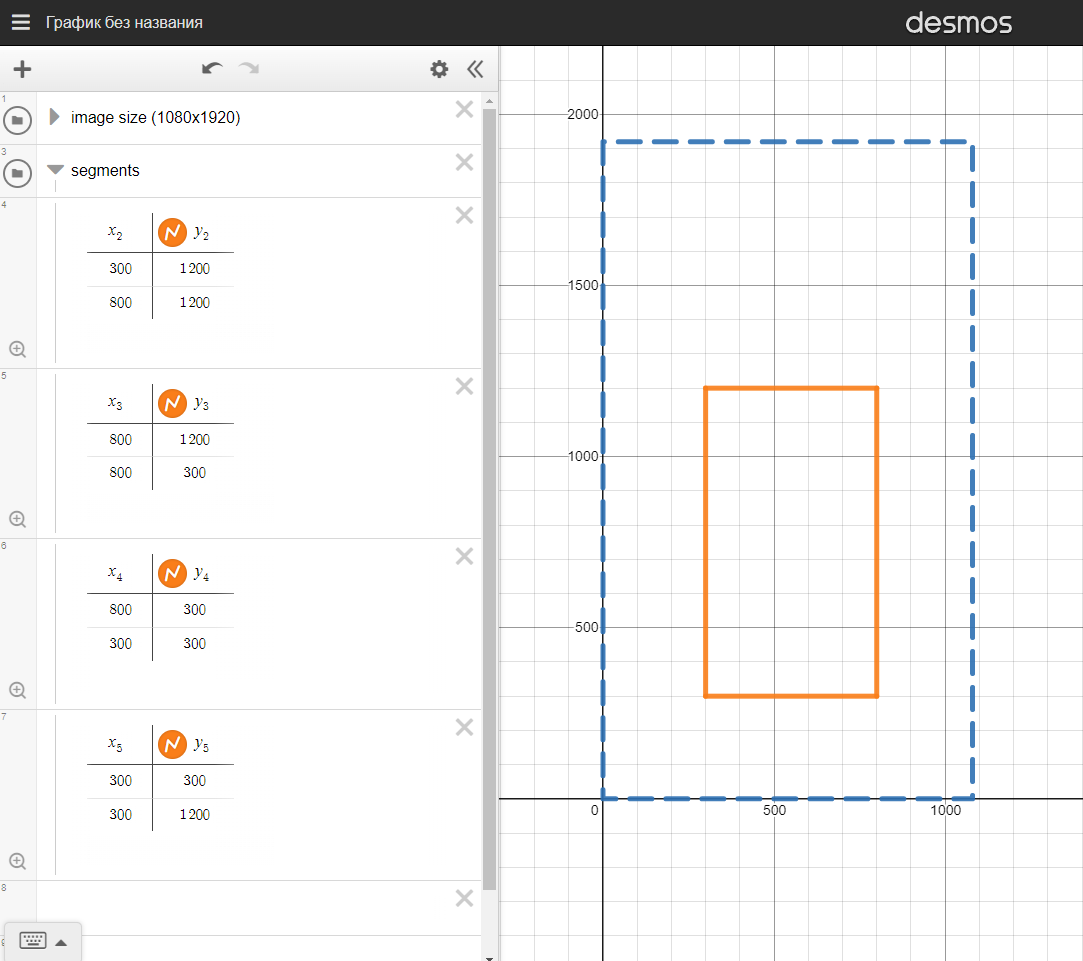
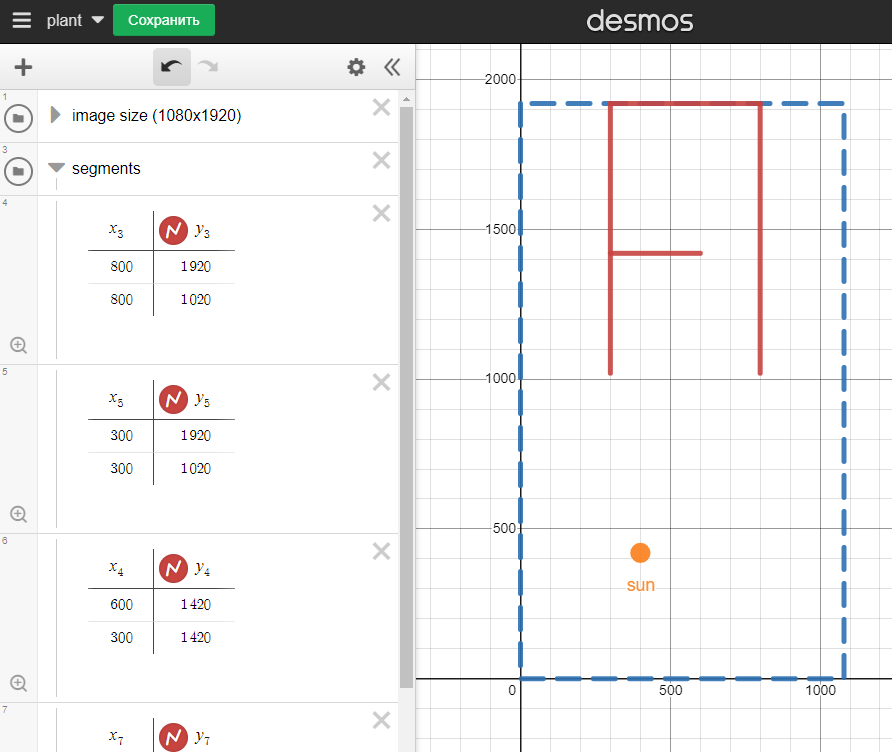
work

diff --git a/src/main.go b/src/main.go
@@ -18,24 +18,24 @@ func main() {
 	fmt.Println("start")
 
 	// Prepare the simulation
-	config.AllPlants = plant.GenPlants() // Gen new plants
-	config.AllGens = append(config.AllGens, []plant.Plant{}) // Add new generation
+	plant.AllPlants = plant.GenPlants() // Gen new plants
 
 	// Run every generation
 	for i := 0; i < config.TotalGenerations; i++ {
 		// Simulate plants
-		for ID, plnt := range config.AllPlants {
+		for ID, plnt := range plant.AllPlants {
 			plnt := plnt // Scope magic to get pointer
-			sim.SimulatePlant(&plnt, "all/g" + strconv.Itoa(len(config.AllGens)) + "p" + strconv.Itoa(ID))
+			sim.SimulatePlant(&plnt, "all/", "g" + strconv.Itoa(len(plant.AllGens)) + "p" + strconv.Itoa(ID))
 		}
 
-		// Sort plants results (worst to best)
-		SortedPlants := plant.SortByScore(config.AllGens[len(config.AllGens) - 1])
+		// Sort plants results in ascending order
+		SortedPlants := plant.SortByScore(plant.AllPlants)
+		plant.AllGens = append(plant.AllGens, SortedPlants) // Add new generation
 
 		// Render highlights
-		sim.SimulatePlant(&SortedPlants[0], "highlights/worst" + strconv.Itoa(i)) // Worst performing plant
-		sim.SimulatePlant(&SortedPlants[helpers.MedianIndex(len(SortedPlants))], "highlights/median" + strconv.Itoa(i)) // Median performing plant
-		sim.SimulatePlant(&SortedPlants[len(SortedPlants) - 1], "highlights/best" + strconv.Itoa(i)) // Best performing plant
+		sim.SimulatePlant(&SortedPlants[0], "highlights/", "worst" + strconv.Itoa(i)) // Worst performing plant
+		sim.SimulatePlant(&SortedPlants[helpers.MedianIndex(len(SortedPlants))], "highlights/", "median" + strconv.Itoa(i)) // Median performing plant
+		sim.SimulatePlant(&SortedPlants[len(SortedPlants) - 1], "highlights/", "best" + strconv.Itoa(i)) // Best performing plant
 
 		// Delete every other plant render
 		if config.HighlightsOnly {
@@ -49,21 +49,21 @@ func main() {
 		}
 
 		// Copy last generation to a new empty generation
-		config.AllGens = append(config.AllGens, make([]plant.Plant, 0))
-		NextGen := len(config.AllGens) - 1
-		config.AllGens[NextGen] = make([]plant.Plant, len(SortedPlants))
-		copy(config.AllGens[NextGen], SortedPlants)
+		plant.AllGens = append(plant.AllGens, make([]plant.Plant, 0))
+		NextGen := len(plant.AllGens) - 1
+		plant.AllGens[NextGen] = make([]plant.Plant, len(SortedPlants))
+		copy(plant.AllGens[NextGen], SortedPlants)
 
 		// Kill worst performing plants
 		// Copy the remaining
-		config.AllGens[NextGen] = evo.KillWorstPlants(config.AllGens[NextGen])
+		plant.AllGens[NextGen] = evo.KillWorstPlants(plant.AllGens[NextGen])
 
 		// Generate new plants by adding/subtracting segments from the last generation plants
-		config.AllGens[NextGen] = evo.RegulateSegments(config.AllGens[NextGen])
+		plant.AllGens[NextGen] = evo.RegulateSegments(plant.AllGens[NextGen])
 
 		// Copy plants over to AllPlants
-		config.AllPlants = config.AllGens[NextGen]
+		plant.AllPlants = plant.AllGens[NextGen]
 
-		fmt.Println("gen #" + strconv.Itoa(len(config.AllGens) - 1) + " done")
+		fmt.Println("gen #" + strconv.Itoa(len(plant.AllGens) - 1) + " done")
 	}
 }

diff --git a/src/config/config.go b/src/config/config.go
@@ -2,7 +2,6 @@ package config
 
 import (
 	"github.com/nekiwo/PlantEvolution/src/box"
-	"github.com/nekiwo/PlantEvolution/src/plant"
 )
 
 // Evolution Config:
@@ -10,11 +9,13 @@ const TotalPlants int = 10 // Total amount of plants each generation
 const TotalGenerations int = 10 // Total number of generation cycles to be simulated
 
 // Plant Config:
-const SegmentLength float64 = 200 // Length of each plant segment (pixels)
+const SegmentLength float64 = 100 // Length of each plant segment (pixels)
+const MaxSegments int = 20 // Max segments that can be earned
+const PointsPerSegment float64 = 5 // Points needed to gain/lose a segment
+const PointsThreshold float64 = 5 // Point threshold needed to be achieved to get at least 1 segment
 
 // Simulation/Physics Config:
 const TotalRays int = 45 // Amount of rays the sun shoots out
-const PointsGoal float64 = 5 // Points needed to gain/lose a segment
 var SimBox box.Box = box.LabyrinthEasy // Chosen box for the simulation
 var ImageBorders [][2][2]int = [][2][2]int{
 	{{0, 0}, {1080, 0}},
@@ -27,9 +28,3 @@ var ImageBorders [][2][2]int = [][2][2]int{
 const HighlightsOnly bool = true // Keep images of only median, most, and least successful plants (every generation)
 const GenerateGraphs bool = false // Keep image graphs for the results
 const ShowRays bool = true // Show light rays for debugging
-
-
-
-// Global vars:
-var AllGens [][]plant.Plant // All simulated plants of all generations
-var AllPlants []plant.Plant // Plants to be simulated

diff --git a/src/graphics/RenderImage.go b/src/graphics/RenderImage.go
@@ -1,18 +1,20 @@
 package graphics
 
 import (
+	"fmt"
 	"github.com/fogleman/gg"
 	"github.com/nekiwo/PlantEvolution/src/config"
 	"github.com/nekiwo/PlantEvolution/src/helpers"
 	"github.com/nekiwo/PlantEvolution/src/plant"
+	"os"
 )
 
-func RenderImage(data plant.Plant, rays [][][2]int, directory string) {
+func RenderImage(data plant.Plant, rays [][][2]int, directory string, FileName string) {
 	ImageDimen := [2]float64{float64(config.ImageBorders[1][1][0]), float64(config.ImageBorders[1][1][1])}
 	draw := gg.NewContext(int(ImageDimen[0]), int(ImageDimen[1]))
 
 	// Draw background
-	draw.SetHexColor("#ffffff")
+	draw.SetHexColor("#99daff")
 	draw.DrawRectangle(0, 0, ImageDimen[0], ImageDimen[1])
 	draw.Fill()
 
@@ -20,6 +22,7 @@ func RenderImage(data plant.Plant, rays [][][2]int, directory string) {
 
 	for _, segment := range ConvertedRotations {
 		DrawSegment(draw, segment, "#42ff6e")
+		fmt.Println(segment)
 	}
 	for _, segment := range config.SimBox.Segments {
 		DrawSegment(draw, segment, "#ffb742")
@@ -28,6 +31,10 @@ func RenderImage(data plant.Plant, rays [][][2]int, directory string) {
 		DrawSegment(draw, segment, "#4261ff")
 	}
 
-	err := draw.SavePNG("out/" + directory + ".png")
+	// Create directory
+	err := os.MkdirAll("out/" + directory, os.ModePerm)
+	helpers.ErrCheck(err)
+
+	err = draw.SavePNG("out/" + directory + FileName + ".png")
 	helpers.ErrCheck(err)
 }

diff --git a/src/evo/RegulateSegments.go b/src/evo/RegulateSegments.go
@@ -1,7 +1,28 @@
 package evo
 
-import "github.com/nekiwo/PlantEvolution/src/plant"
+import (
+	"github.com/nekiwo/PlantEvolution/src/config"
+	"github.com/nekiwo/PlantEvolution/src/plant"
+	"math"
+)
 
 func RegulateSegments(data []plant.Plant) []plant.Plant {
+	NewData := data
 
+	for _, plnt := range NewData {
+		if plnt.Points > config.PointsThreshold {
+			// Count new segments from points
+			NewSegments := int((plnt.Points - math.Mod(plnt.Points, config.PointsPerSegment)) / config.PointsPerSegment)
+
+			// Add new segments to plant
+			if len(plnt.Segments) + NewSegments < config.MaxSegments {
+				plnt.Segments = plant.GenSegments(plnt.Segments, NewSegments)
+			}
+		} else {
+			// Remove a segment from the plant
+			plnt.Segments = plnt.Segments[:len(plnt.Segments) - 1]
+		}
+	}
+
+	return NewData
 }

diff --git a/src/evo/KillWorstPlants.go b/src/evo/KillWorstPlants.go
@@ -1,7 +1,25 @@
 package evo
 
-import "github.com/nekiwo/PlantEvolution/src/plant"
+import (
+	"github.com/nekiwo/PlantEvolution/src/config"
+	"github.com/nekiwo/PlantEvolution/src/plant"
+	"math"
+)
 
 func KillWorstPlants(data []plant.Plant) []plant.Plant {
+	NewData := make([]plant.Plant, 0)
 
+	// Clone top half of blobs
+	HalfBlobNum := int(math.Floor(float64(config.TotalPlants) / 2))
+	for i := 0; i < HalfBlobNum; i++ {
+		NewData = append(NewData, data[len(data) - i - 1])
+		NewData = append(NewData, data[len(data) - i - 1]) // Clone the other half to fill the gap
+	}
+
+	// Fix number of blobs for odd numbered slices
+	if len(NewData) != config.TotalPlants {
+		NewData = append(NewData, data[len(data) - 1])
+	}
+
+	return NewData
 }

diff --git a/src/sim/SimulatePlant.go b/src/sim/SimulatePlant.go
@@ -7,7 +7,7 @@ import (
 	"github.com/nekiwo/PlantEvolution/src/plant"
 )
 
-func SimulatePlant(data *plant.Plant, ID string) {
+func SimulatePlant(data *plant.Plant, directory, ID string) {
 	rays := make([][][2]int, 0)
 
 	for i := 0; i < 360; i += 360 / config.TotalRays {
@@ -17,5 +17,5 @@ func SimulatePlant(data *plant.Plant, ID string) {
 		}, data))
 	}
 
-	graphics.RenderImage(*data, rays, ID)
+	graphics.RenderImage(*data, rays, directory, ID)
 }

diff --git a/src/plant/ConvertToPoints.go b/src/plant/ConvertToPoints.go
@@ -7,7 +7,7 @@ import (
 
 func ConvertToPoints(rotations []float64) [][2][2]int {
 	points := make([][2][2]int, 0)
-	LastPoint := [2]int{config.ImageBorders[1][1][0] / 2, 0} // Bottom middle of the image
+	LastPoint := [2]int{config.ImageBorders[1][1][0] / 2, config.ImageBorders[1][1][1]} // Bottom middle of the image
 
 	for _, rot := range rotations {
 		points = append(points, [2][2]int{

diff --git a/src/box/BoxExamples.go b/src/box/BoxExamples.go
@@ -2,10 +2,10 @@ package box
 
 var LabyrinthEasy Box = Box{
 	[][2][2]int{
-		{{800, 900}, {800, 0}},
-		{{300, 0}, {300, 900}},
-		{{600, 500}, {300, 500}},
-		{{300, 0}, {800, 0}},
+		{{800, 1020}, {800, 1920}},
+		{{300, 1920}, {300, 1020}},
+		{{600, 1420}, {300, 1420}},
+		{{300, 19200}, {800, 1920}},
 	},
-	[2]int{400, 1500},
+	[2]int{400, 420},
 }

diff --git a/src/plant/SortByScore.go b/src/plant/SortByScore.go
@@ -3,9 +3,9 @@ package plant
 import "sort"
 
 func SortByScore(data []Plant) []Plant {
-	// Soring blobs (worst to best)
-	sort.Slice(data, func(i0, i1 int) bool {
-		return data[i0].Points < data[i1].Points
+	// Soring plants (worst to best)
+	sort.Slice(data, func(i, j int) bool {
+		return data[i].Points < data[j].Points
 	})
 
 	return data

diff --git a/src/graphics/DrawSegment.go b/src/graphics/DrawSegment.go
@@ -4,7 +4,7 @@ import "github.com/fogleman/gg"
 
 func DrawSegment(draw *gg.Context, segment [2][2]int, color string) {
 	draw.SetHexColor(color)
-	draw.SetLineWidth(6)
+	draw.SetLineWidth(15)
 	draw.DrawLine(float64(segment[0][0]), float64(segment[0][1]), float64(segment[1][0]), float64(segment[1][1]))
 	draw.Stroke()
 }

diff --git a/src/plant/Plant.go b/src/plant/Plant.go
@@ -3,7 +3,6 @@ package plant
 type Plant struct {
 	GenerationNum int // Generation index
 	Origin int // Specie ID (specie IDs are only generated in the 1st gen)
-	TotalSegments int // Number of tail segments
 	Segments []float64 // Slice of segments rotations
 	Points float64 // Points earned by sun ray hits
 }

diff --git a/src/plant/GenPlant.go b/src/plant/GenPlant.go
@@ -1,13 +1,10 @@
 package plant
 
-import "github.com/nekiwo/PlantEvolution/src/config"
-
 
 func GenPlant(ID int) Plant {
 	plant := Plant{
-		len(config.AllGens),
+		len(AllGens),
 		ID,
-		3,
 		GenSegments(make([]float64, 0), 3),
 		0,
 	}
